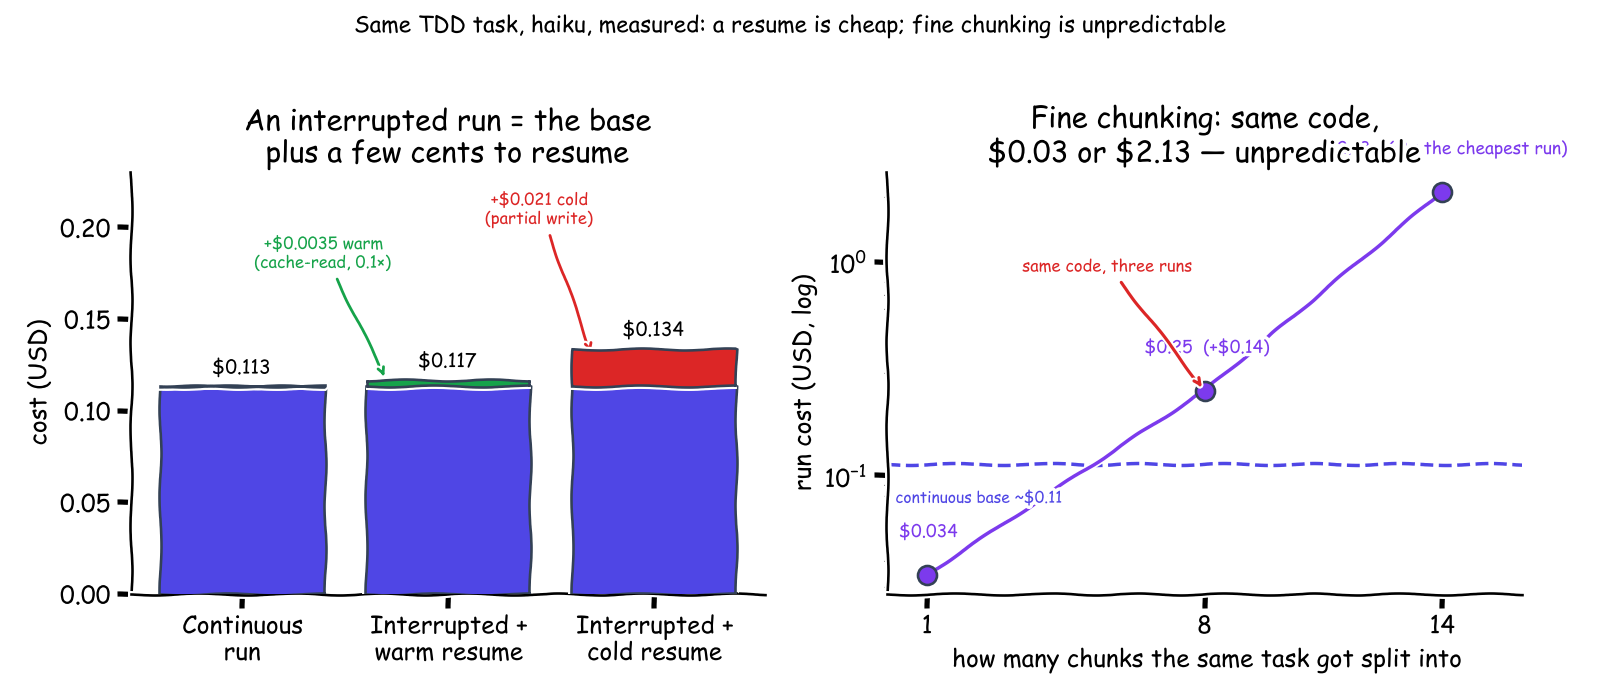
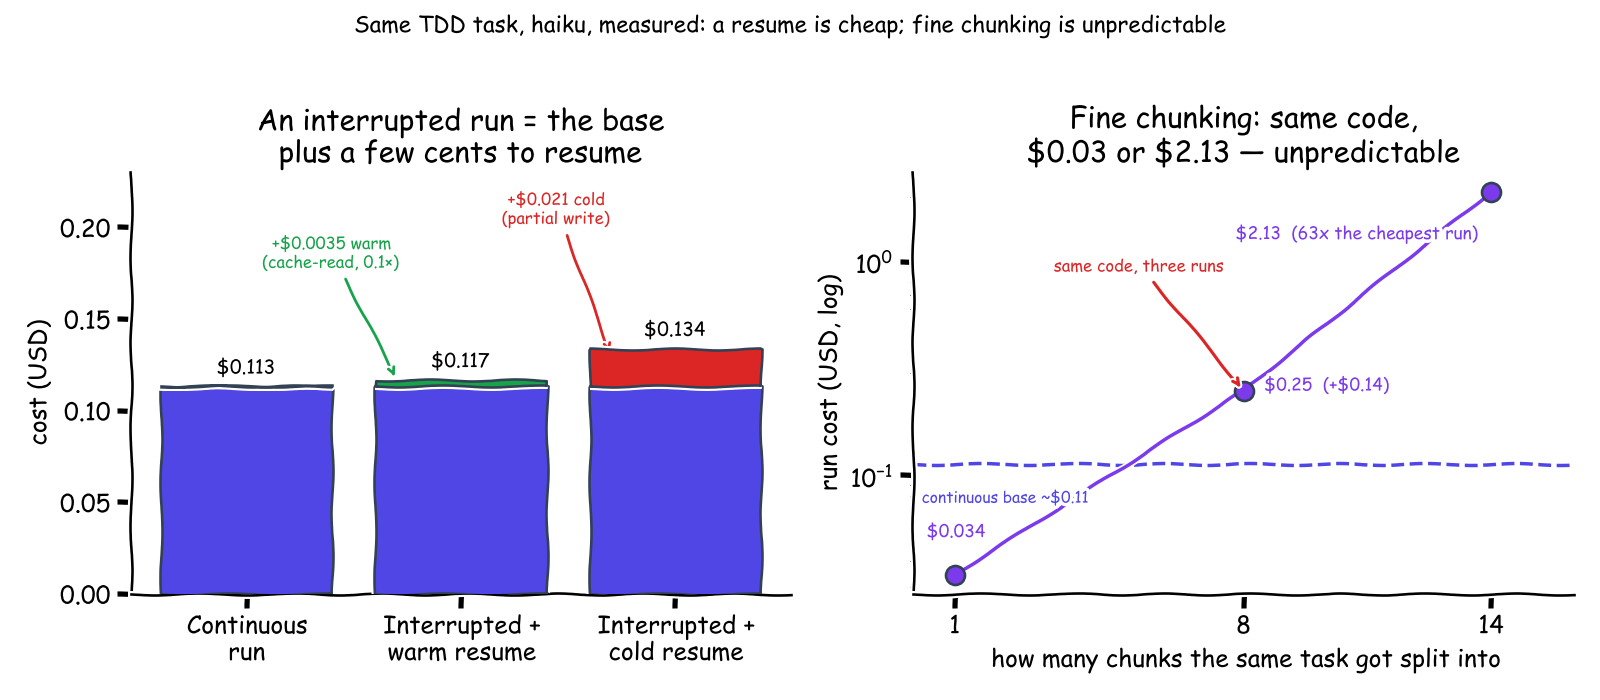
Review sweep: three diagram overlaps fixed, boundary-method figures attributed honestly, economics footnote wording corrected, two duplicated passages reworded

diff --git a/assets/plot-src/plots.py b/assets/plot-src/plots.py
@@ -71,7 +71,12 @@ def figure():
             # triggers matplotlib mathtext, which eats both signs; "\$" renders literally.
             money = f"\\${d:.3f}" if d < 0.1 else f"\\${d + 5e-4:.2f}"
             lbl = money + ("  (63x the cheapest run)" if d > 2 else (f"  (+\\${d - base:.2f})" if d - base > 0.05 else ""))
-            axB.text(c, d * 1.5, lbl, ha="center", fontsize=10, color=PURPLE)
+            # Per-point placement: the 8-chunk label goes RIGHT of its point (the
+            # red annotate arrow arrives from the upper left and would strike a
+            # centered-above label); the 14-chunk label goes BELOW-LEFT (above the
+            # point lands outside the axes, under the title). 1-chunk stays above.
+            x_lbl, y_mult, ha = {1: (c, 1.5, "center"), 8: (c + 0.5, 1.0, "left"), 14: (c - 0.5, 0.6, "right")}[c]
+            axB.text(x_lbl, d * y_mult, lbl, ha=ha, fontsize=10, color=PURPLE)
         # No "→" here: the xkcd/Comic Sans font has no glyph for it (renders as tofu).
         axB.annotate("same code, three runs",
                      xy=(8, 0.25), xytext=(3.4, 0.9), fontsize=9.5, color=RED,

diff --git a/articles/final/mechanics-cost-cents-medium.md b/articles/final/mechanics-cost-cents-medium.md
@@ -19,7 +19,7 @@ Put a durable-execution engine under a coding agent and it sounds like paying tw
 
 Total run cost is two terms. The agent's actual work, plus the overhead of any boundary you cross: a resume after a crash, a seam between chunks. The first term swings wildly (the same task takes the agent three turns or nine). So comparing totals across runs buries the boundary signal in noise. The estimator that works holds the work at **zero**. Build a session to a fixed prefix, then resume it with a no-op (one turn, "reply OK, no tools") and read the bill. Whatever that no-op costs *is* the boundary: the price of re-establishing the conversation, with the variance removed.¹
 
-![The boundary estimator: build one session to a fixed 28k-token prefix, then resume it with a one-turn no-op ("reply OK, no tools") so the bill is pure boundary; resumed back-to-back it costs $0.0035 (a cache read, ~3% of the base run), resumed after 65 idle minutes it costs $0.021 (a partial cache write that then re-warms); the boundary is linear in the prefix, roughly 0.1x the input rate warm and 1.25x cold](../../assets/diagrams/boundary-method.png)
+![The boundary estimator: build one session to a fixed prefix of roughly 30k tokens, then resume it with a one-turn no-op ("reply OK, no tools") so the bill is pure boundary; resumed back-to-back it costs $0.0035 (a cache read, ~3% of the base run), resumed after 65 idle minutes it costs $0.021 (a partial cache write that then re-warms); the boundary is linear in the prefix, roughly 0.1x the input rate warm and 1.25x cold](../../assets/diagrams/boundary-method.png)
 *The estimator. A no-op resume does zero work, so whatever it costs is the boundary itself. Stay inside the cache lifetime and every seam is nearly free.*
 
 Everything below was run strictly one at a time. An earlier batch taught us that lesson the hard way: concurrent runs contaminated each other's numbers. Cost is the CLI's own `total_cost_usd`, identical on a laptop or a cloud VM. That is a property of the API's prompt caching, not of the infrastructure.
@@ -96,7 +96,7 @@ Its first flights independently reproduced the published numbers (warm resume $0
 ## Notes
 
 1. The boundary estimator: one session built to a fixed ~28k-token prefix, then resumed with `--max-turns 1` and a no-tools instruction; the resume's `total_cost_usd` is the boundary tax with work variance held at zero. Same prefix every trial, so the numbers are tight ($0.00311 warm ×3, $0.00312 at 390 seconds ×3; the 6.5-minute "cold" probe came back still warm, ratio 1.0×).
-2. The four-cost experiment, 2026-07-15, strictly sequential: continuous ×3 ($0.058/$0.132/$0.149, 3 to 9 turns, prefixes 84k to 332k); warm boundary ×5 ($0.0035, all cache-reads, ~31k tokens); cold boundary ×3 after a 65-minute idle gap ($0.0206, a partial cache-write of 14.9k of ~32k tokens, then re-warmed); fine-chunked ×3 ($0.034/$0.25/$2.13 at 1/8/14 chunks). The full write-up is in the evidence repository.
+2. The four-cost experiment, 2026-07-15, strictly sequential: continuous ×3 ($0.058/$0.132/$0.149, 3 to 9 turns, 84k to 332k input tokens billed across each run's turns); warm boundary ×5 ($0.0035, all cache-reads, ~31k tokens); cold boundary ×3 after a 65-minute idle gap ($0.0206, a partial cache-write of 14.9k of ~32k tokens, then re-warmed); fine-chunked ×3 ($0.034/$0.25/$2.13 at 1/8/14 chunks). The full write-up is in the evidence repository.
 3. Warm boundary ≈ 0.1 × prefix × input rate; cold ≈ 1.25 ×. At 28k: $0.003 warm. At the 470k prefix observed on live issue #41: ~$0.05 per warm resume, ~$0.47 for ten back-to-back warm seams, ~$5.88 for ten cold-spaced ones. The evidence repository has the table.
 4. The first experiment's results file (its header now marks it superseded): coarse median $0.145 (mean $0.248, range $0.091 to $0.793), fine median $0.113 (mean $0.148, range $0.074 to $0.344), n=6 each, after an n=3 first pass showing +68% failed to replicate. The $0.79 outlier was a coarse run that rambled into a second chunk: wandering, not boundaries, drove the spread even here.
 5. The bare-loop runner, nine trials of the same task as a plain headless run: mean $0.1751, median $0.1719, range $0.05 to $0.30, against the durable coarse run's $0.145 median, a tie within noise on these sample sizes.

diff --git a/articles/final/how-its-built-medium.md b/articles/final/how-its-built-medium.md
@@ -52,7 +52,7 @@ But every completed-chunk boundary is another resume: an agent invocation that r
 
 ## Steering Mechanics
 
-The flagship shows the three verbs the surviving boundaries buy (query, steer, cancel) and prices the hand-build alternative in a table. The mechanics behind those verbs are smaller than they sound, a few dozen lines of workflow and activity code. The status query answers from the workflow's own replicated state, so it needs no database and works even while the agent is mid-tool-call. A steer is a signal the workflow folds into the *next* chunk's prompt; if it arrives during the very last chunk, the workflow schedules one more, so late guidance is never silently dropped. And a cancel is delivered on the next heartbeat: the activity tells the running agent to stop, so it exits cleanly instead of burning tokens as an orphan, and the job lands in a canceled state you can see. (The query and steer demos are recorded in the lab notebook this project distills.)
+The flagship shows the three verbs the surviving boundaries buy (query, steer, cancel) and prices the hand-build alternative in a table. The mechanics behind those verbs are smaller than they sound, a few dozen lines of workflow and activity code. The status query answers from the workflow's own replicated state, so it needs no database and works even while the agent is mid-tool-call. A steer is a signal the workflow folds into the *next* chunk's prompt, and one that lands during the final chunk buys an extra chunk rather than vanishing. A cancel rides the heartbeat channel: the activity asks the running agent to stop, the agent exits cleanly rather than burning tokens as an orphan, and the job records a canceled state you can query. (The query and steer demos are recorded in the lab notebook this project distills.)
 
 ## The Org Chart, and What Changed Since
 
@@ -61,7 +61,7 @@ The flagship names the team: two conductor workflows, nine single-purpose activi
 ![The Team of Activities: two workflows (the durable task and the scheduled poll) conduct a team of nine one-job activities grouped into three columns. The work and intake column runs the agent, exports the transcript, and scouts GitHub for work; the pull-request column opens the PR, posts the review verdict, and merges the approved PR; the conflict-repair column updates a stale branch, escalates a real conflict to the owning team, and pushes the resolved branch. Each step is a durable activity: retried, heartbeated, recorded](../../assets/diagrams/team-of-activities.png)
 *The Team of Activities. Two workflows conduct nine one-job specialists. Read the columns as sub-teams: doing the work and finding it; the pull-request lifecycle; and repairing a conflict. Every box is a durable activity, so every box is retried, heartbeated, and recorded without anyone writing that code.*
 
-Adding a member is mechanical, and that is what makes this a design rather than a script. You write one function that does the real-world thing and hands back typed data, declare how it should retry, and name the moment in the workflow where it runs. It inherits crash recovery, backoff, cancellation, and the audit trail from the harness, not from anything you wrote. The hard, distributed-systems parts are already solved; the only thing you add is the one honest step.
+Adding a member is mechanical, and that is what makes this a design rather than a script: one new function that does the real-world thing and returns typed data, a declared retry policy, and a named moment in the workflow to run it. Everything else (crash recovery, backoff, cancellation, the audit trail) arrives from the harness, not from anything you wrote. The hard, distributed-systems parts are already solved; the only thing you add is the one honest step.
 
 ## Lane Plumbing
 

diff --git a/articles/final/how-its-built.md b/articles/final/how-its-built.md
@@ -52,7 +52,7 @@ But every completed-chunk boundary is another resume: an agent invocation that r
 
 ## Steering Mechanics
 
-The flagship shows the three verbs the surviving boundaries buy (query, steer, cancel) and prices the hand-build alternative in a table. The mechanics behind those verbs are smaller than they sound, a few dozen lines of workflow and activity code. The status query answers from the workflow's own replicated state, so it needs no database and works even while the agent is mid-tool-call. A steer is a signal the workflow folds into the *next* chunk's prompt; if it arrives during the very last chunk, the workflow schedules one more, so late guidance is never silently dropped. And a cancel is delivered on the next heartbeat: the activity tells the running agent to stop, so it exits cleanly instead of burning tokens as an orphan, and the job lands in a canceled state you can see. (The query and steer demos are recorded in the lab notebook this project distills.)
+The flagship shows the three verbs the surviving boundaries buy (query, steer, cancel) and prices the hand-build alternative in a table. The mechanics behind those verbs are smaller than they sound, a few dozen lines of workflow and activity code. The status query answers from the workflow's own replicated state, so it needs no database and works even while the agent is mid-tool-call. A steer is a signal the workflow folds into the *next* chunk's prompt, and one that lands during the final chunk buys an extra chunk rather than vanishing. A cancel rides the heartbeat channel: the activity asks the running agent to stop, the agent exits cleanly rather than burning tokens as an orphan, and the job records a canceled state you can query. (The query and steer demos are recorded in the lab notebook this project distills.)
 
 ## The Org Chart, and What Changed Since
 
@@ -61,7 +61,7 @@ The flagship names the team: two conductor workflows, nine single-purpose activi
 ![The Team of Activities: two workflows (the durable task and the scheduled poll) conduct a team of nine one-job activities grouped into three columns. The work and intake column runs the agent, exports the transcript, and scouts GitHub for work; the pull-request column opens the PR, posts the review verdict, and merges the approved PR; the conflict-repair column updates a stale branch, escalates a real conflict to the owning team, and pushes the resolved branch. Each step is a durable activity: retried, heartbeated, recorded](../../assets/diagrams/team-of-activities.png)
 *The Team of Activities. Two workflows conduct nine one-job specialists. Read the columns as sub-teams: doing the work and finding it; the pull-request lifecycle; and repairing a conflict. Every box is a durable activity, so every box is retried, heartbeated, and recorded without anyone writing that code.*
 
-Adding a member is mechanical, and that is what makes this a design rather than a script. You write one function that does the real-world thing and hands back typed data, declare how it should retry, and name the moment in the workflow where it runs. It inherits crash recovery, backoff, cancellation, and the audit trail from the harness, not from anything you wrote. The hard, distributed-systems parts are already solved; the only thing you add is the one honest step.
+Adding a member is mechanical, and that is what makes this a design rather than a script: one new function that does the real-world thing and returns typed data, a declared retry policy, and a named moment in the workflow to run it. Everything else (crash recovery, backoff, cancellation, the audit trail) arrives from the harness, not from anything you wrote. The hard, distributed-systems parts are already solved; the only thing you add is the one honest step.
 
 ## Lane Plumbing
 

diff --git a/articles/final/mechanics-cost-cents.md b/articles/final/mechanics-cost-cents.md
@@ -19,7 +19,7 @@ Put a durable-execution engine under a coding agent and it sounds like paying tw
 
 Total run cost is two terms. The agent's actual work, plus the overhead of any boundary you cross: a resume after a crash, a seam between chunks. The first term swings wildly (the same task takes the agent three turns or nine). So comparing totals across runs buries the boundary signal in noise. The estimator that works holds the work at **zero**. Build a session to a fixed prefix, then resume it with a no-op (one turn, "reply OK, no tools") and read the bill. Whatever that no-op costs *is* the boundary: the price of re-establishing the conversation, with the variance removed.[^method]
 
-![The boundary estimator: build one session to a fixed 28k-token prefix, then resume it with a one-turn no-op ("reply OK, no tools") so the bill is pure boundary; resumed back-to-back it costs $0.0035 (a cache read, ~3% of the base run), resumed after 65 idle minutes it costs $0.021 (a partial cache write that then re-warms); the boundary is linear in the prefix, roughly 0.1x the input rate warm and 1.25x cold](../../assets/diagrams/boundary-method.png)
+![The boundary estimator: build one session to a fixed prefix of roughly 30k tokens, then resume it with a one-turn no-op ("reply OK, no tools") so the bill is pure boundary; resumed back-to-back it costs $0.0035 (a cache read, ~3% of the base run), resumed after 65 idle minutes it costs $0.021 (a partial cache write that then re-warms); the boundary is linear in the prefix, roughly 0.1x the input rate warm and 1.25x cold](../../assets/diagrams/boundary-method.png)
 *The estimator. A no-op resume does zero work, so whatever it costs is the boundary itself. Stay inside the cache lifetime and every seam is nearly free.*
 
 Everything below was run strictly one at a time. An earlier batch taught us that lesson the hard way: concurrent runs contaminated each other's numbers. Cost is the CLI's own `total_cost_usd`, identical on a laptop or a cloud VM. That is a property of the API's prompt caching, not of the infrastructure.
@@ -95,7 +95,7 @@ Its first flights independently reproduced the published numbers (warm resume $0
 
 [^method]: The boundary estimator: one session built to a fixed ~28k-token prefix, then resumed with `--max-turns 1` and a no-tools instruction; the resume's `total_cost_usd` is the boundary tax with work variance held at zero. Same prefix every trial, so the numbers are tight ($0.00311 warm ×3, $0.00312 at 390 seconds ×3; the 6.5-minute "cold" probe came back still warm, ratio 1.0×).
 
-[^four]: The four-cost experiment, 2026-07-15, strictly sequential: continuous ×3 ($0.058/$0.132/$0.149, 3 to 9 turns, prefixes 84k to 332k); warm boundary ×5 ($0.0035, all cache-reads, ~31k tokens); cold boundary ×3 after a 65-minute idle gap ($0.0206, a partial cache-write of 14.9k of ~32k tokens, then re-warmed); fine-chunked ×3 ($0.034/$0.25/$2.13 at 1/8/14 chunks). The full write-up is in the evidence repository.
+[^four]: The four-cost experiment, 2026-07-15, strictly sequential: continuous ×3 ($0.058/$0.132/$0.149, 3 to 9 turns, 84k to 332k input tokens billed across each run's turns); warm boundary ×5 ($0.0035, all cache-reads, ~31k tokens); cold boundary ×3 after a 65-minute idle gap ($0.0206, a partial cache-write of 14.9k of ~32k tokens, then re-warmed); fine-chunked ×3 ($0.034/$0.25/$2.13 at 1/8/14 chunks). The full write-up is in the evidence repository.
 
 [^linear]: Warm boundary ≈ 0.1 × prefix × input rate; cold ≈ 1.25 ×. At 28k: $0.003 warm. At the 470k prefix observed on live issue #41: ~$0.05 per warm resume, ~$0.47 for ten back-to-back warm seams, ~$5.88 for ten cold-spaced ones. The evidence repository has the table.
 
